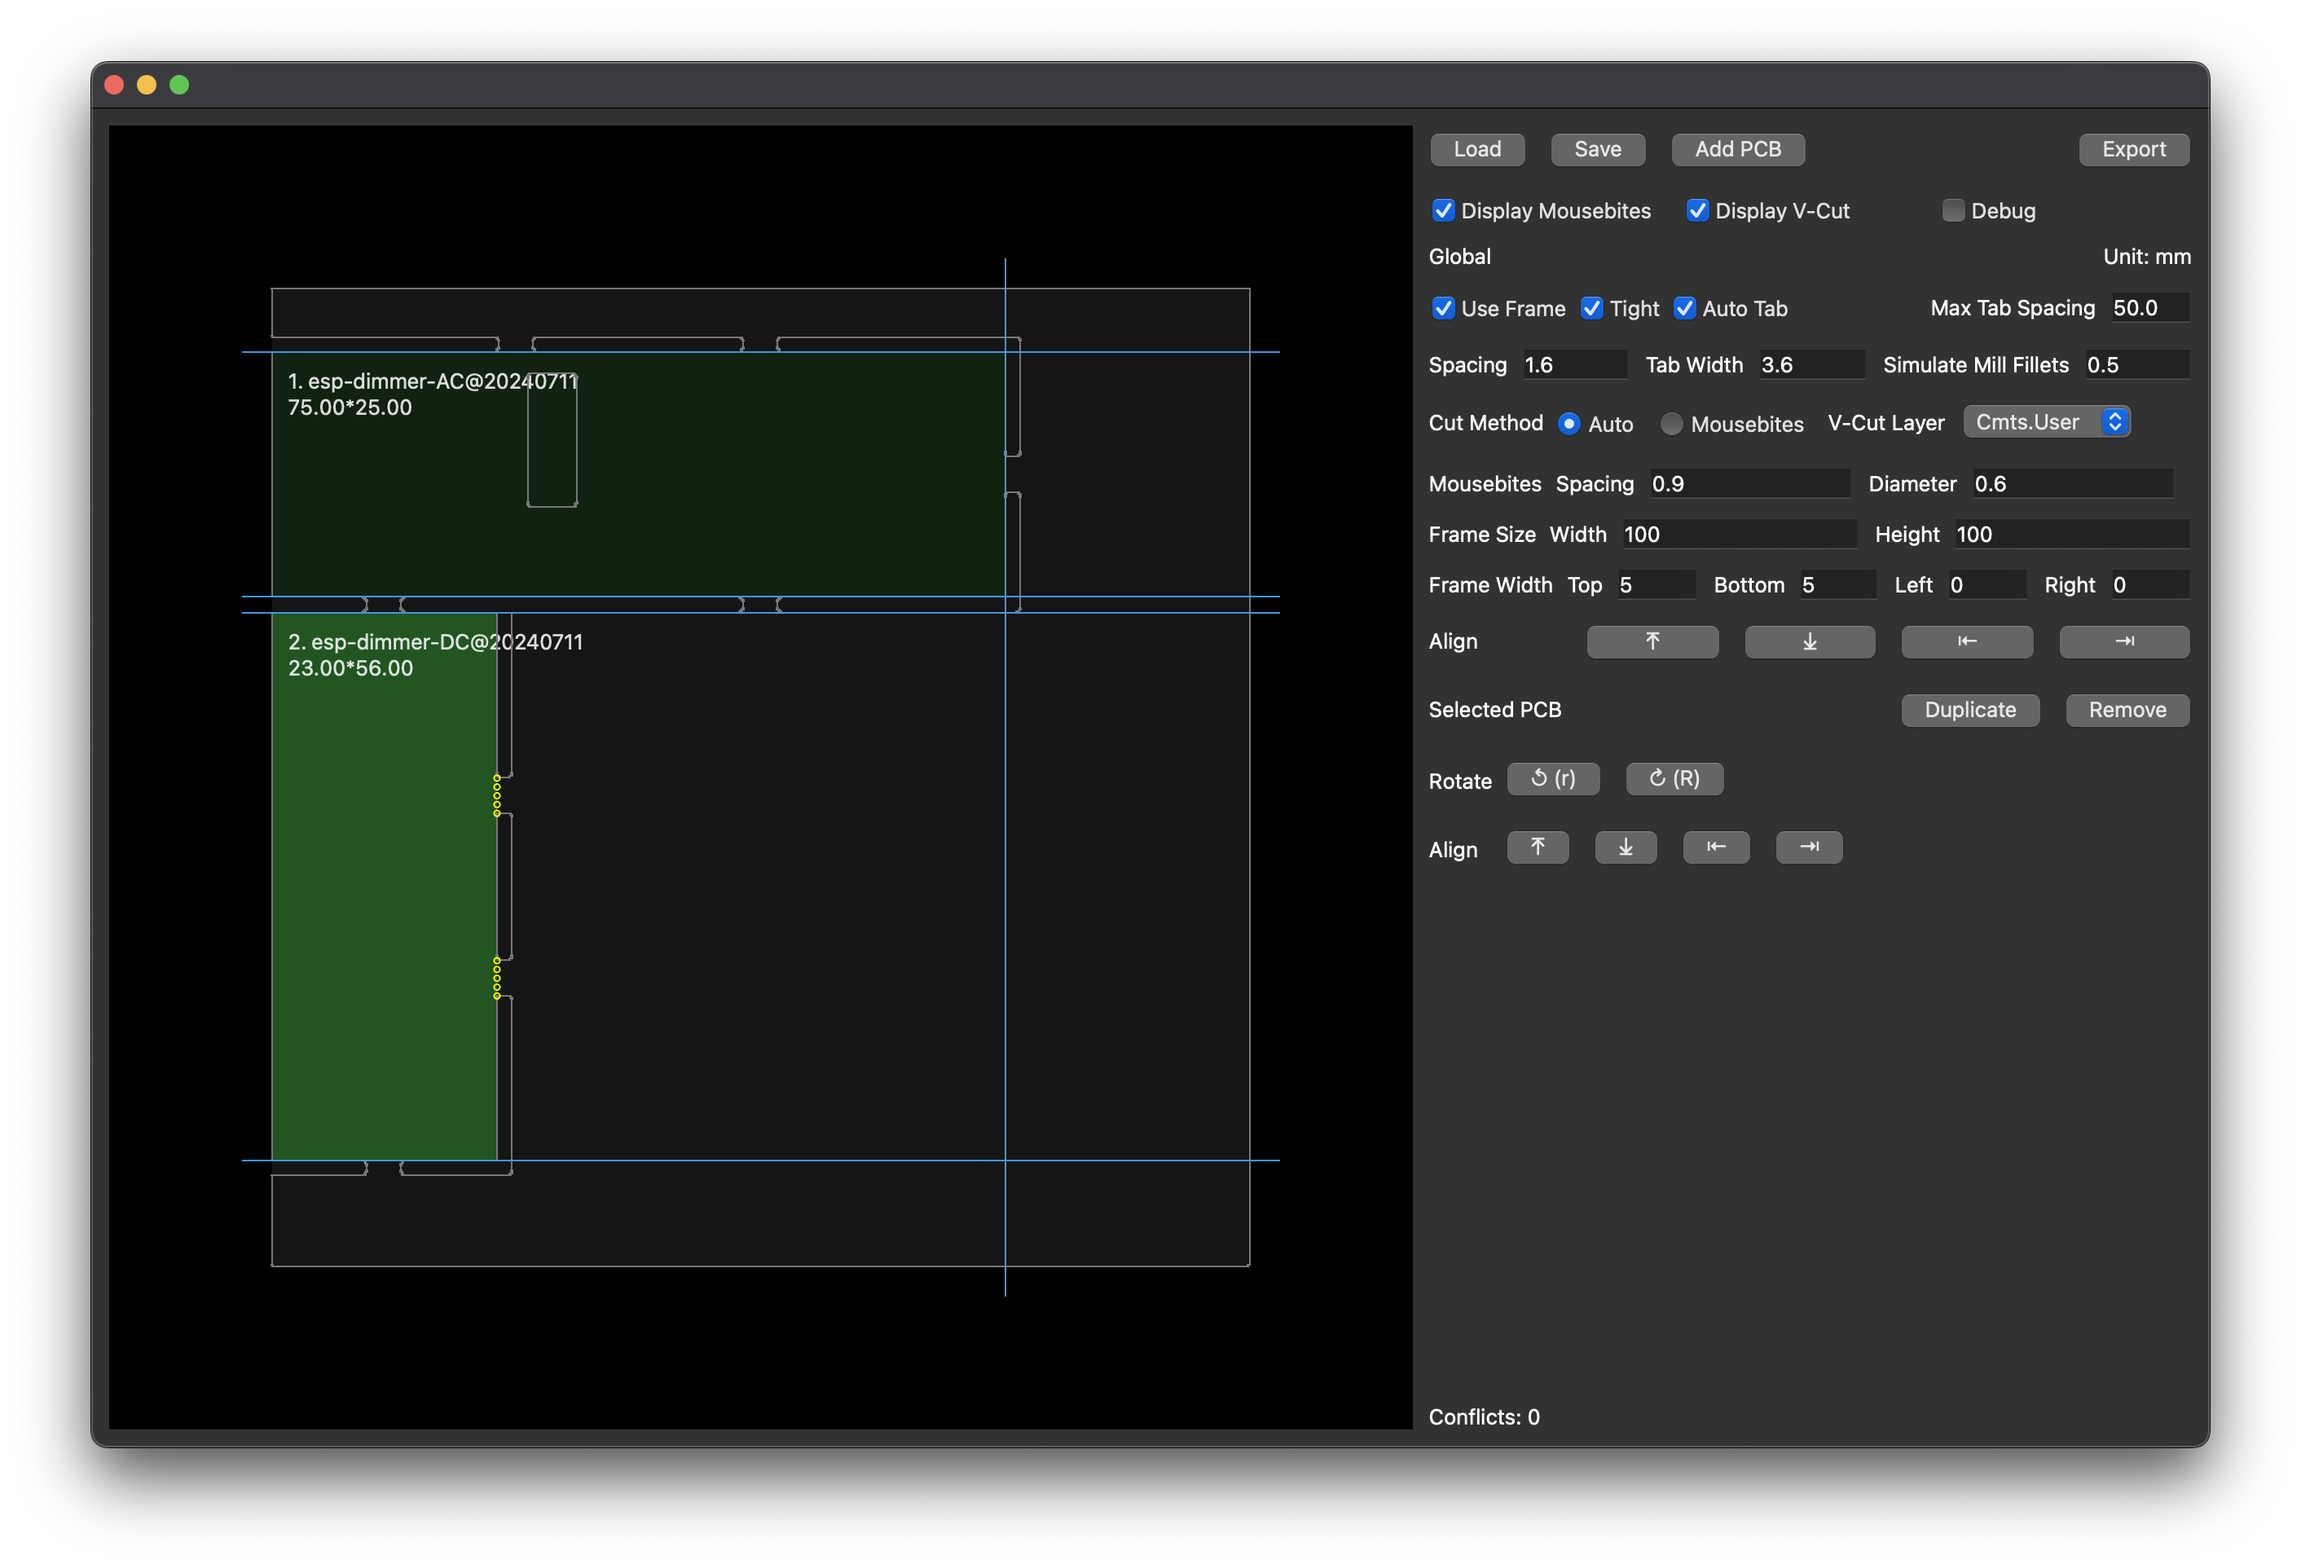
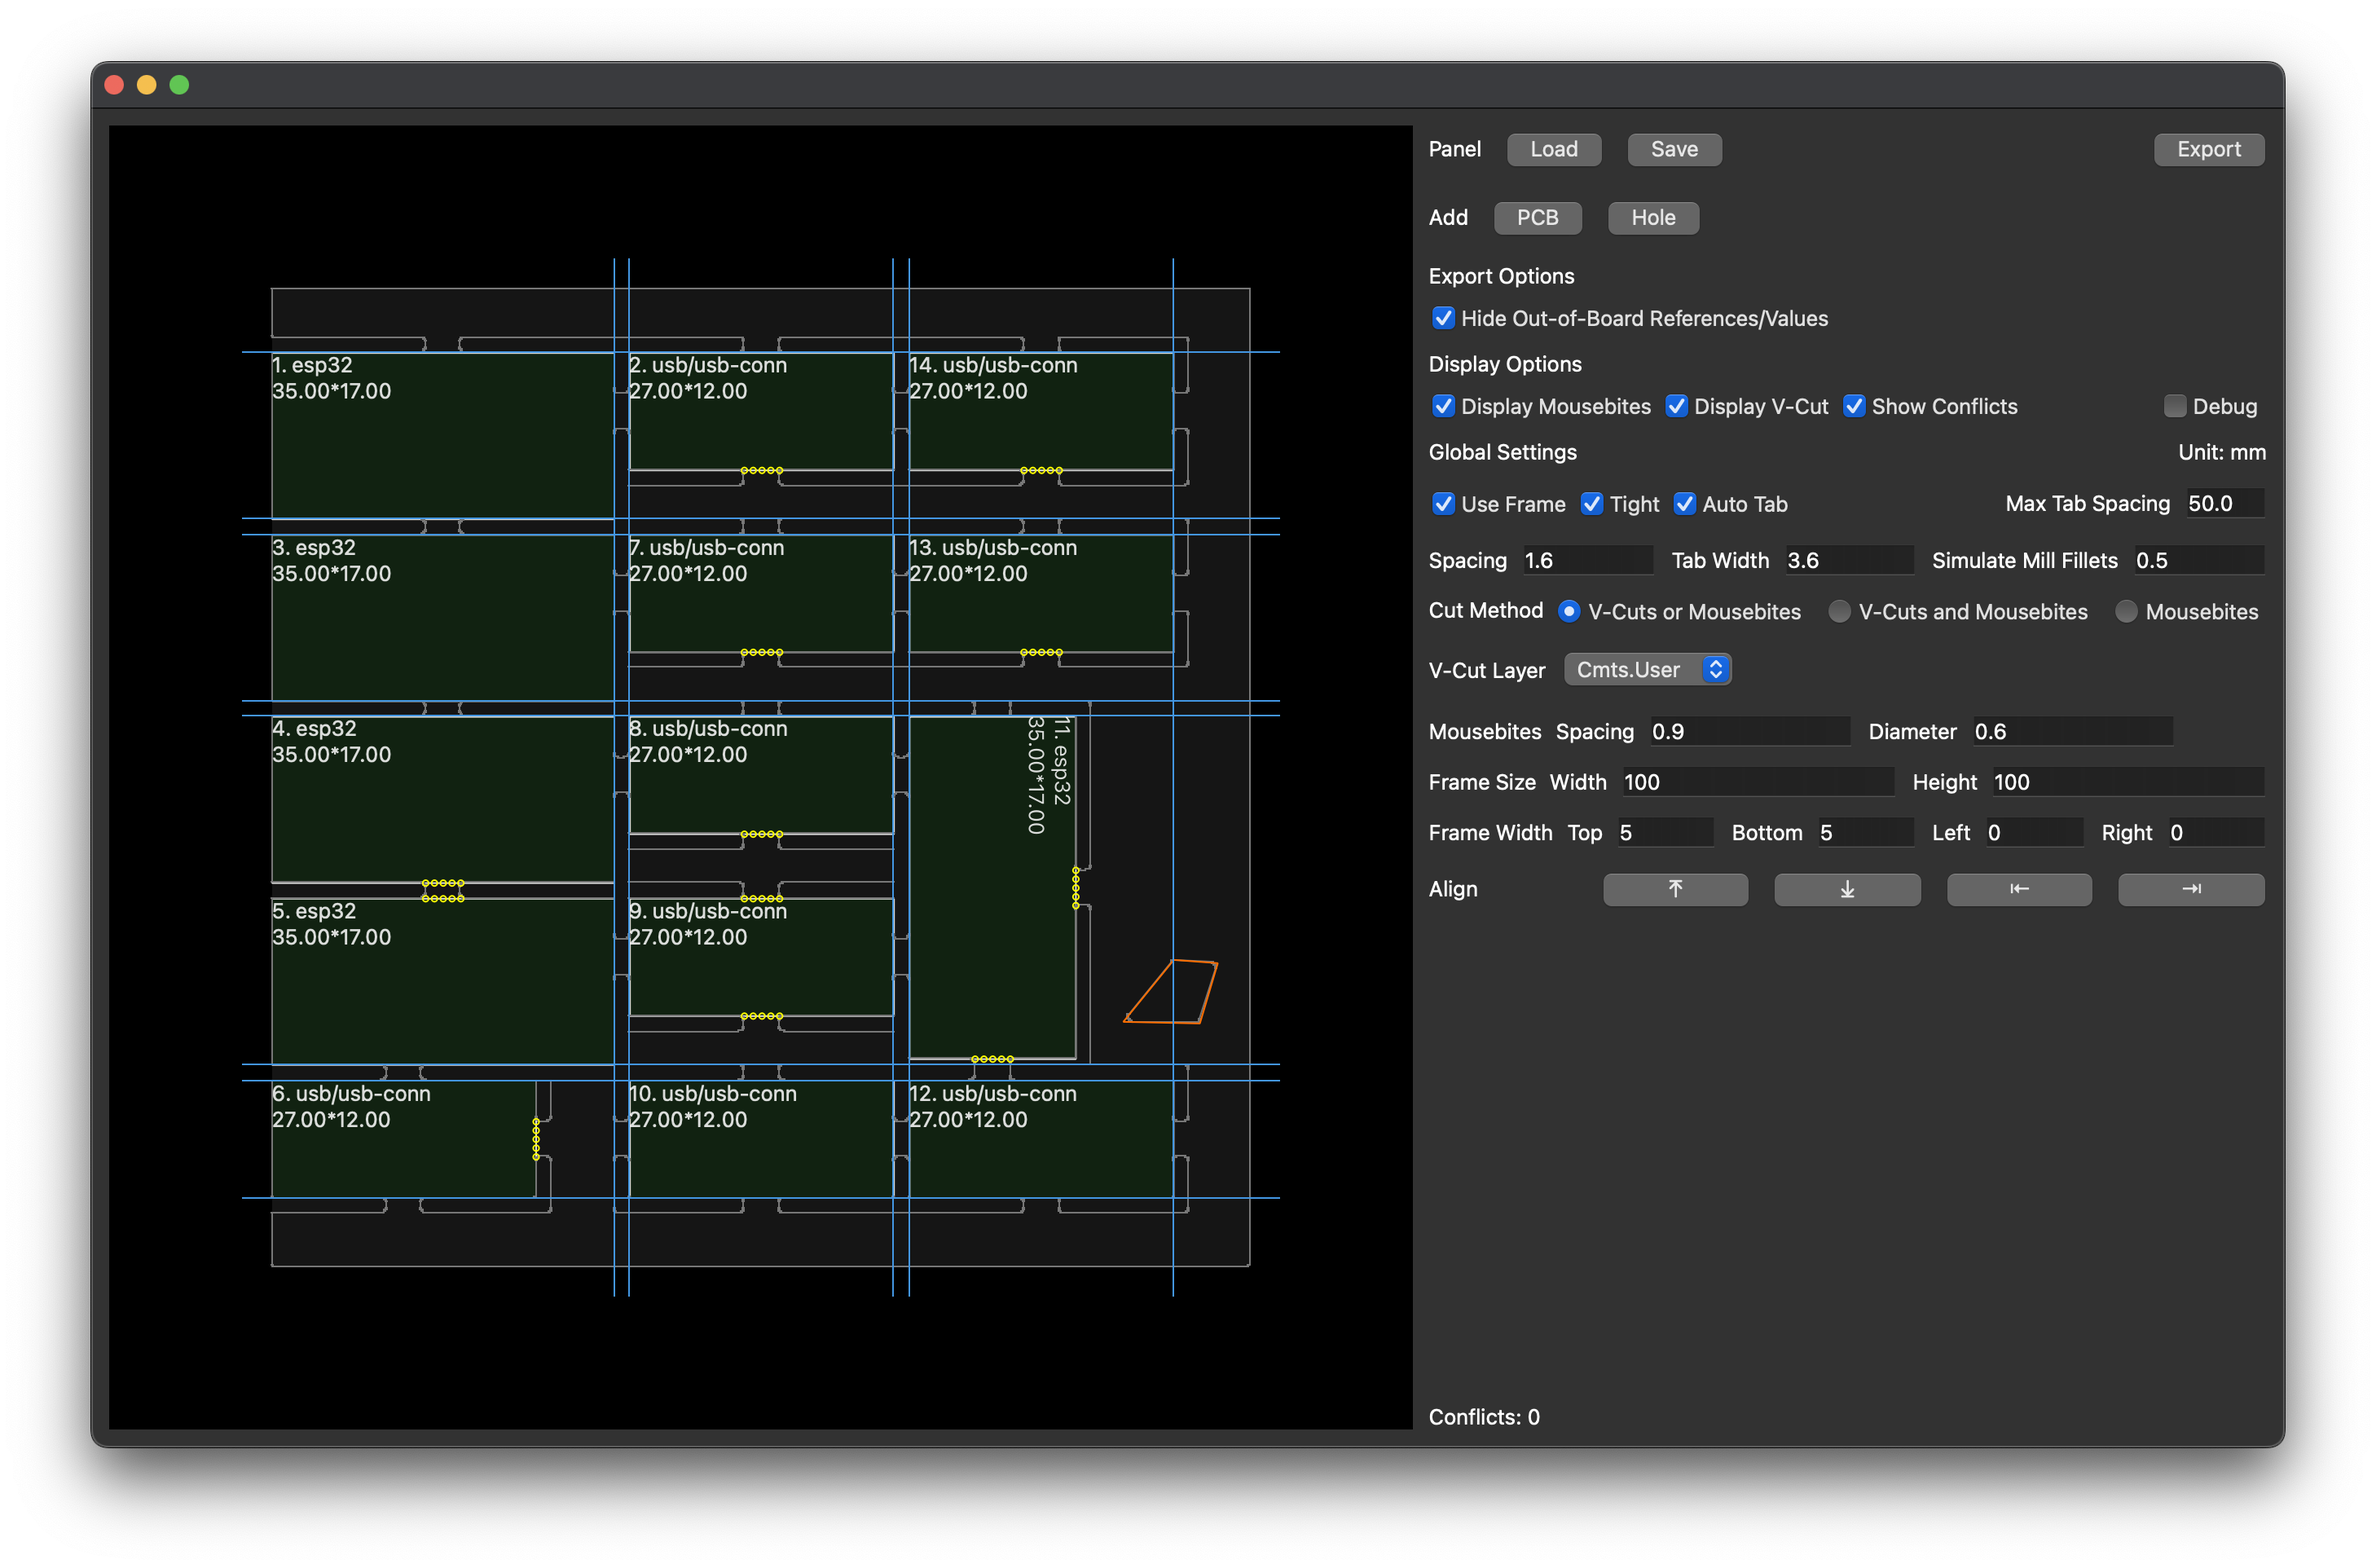
update screenshots

diff --git a/README.md b/README.md
@@ -48,7 +48,7 @@ Run
 # Substrate Hole
 ![Substrate Hole](screenshots/substrate_hole.gif)
 
-# Tight Frame + Auto Tab + Auto Cut
+# Tight Frame + Auto Tab + V-Cuts or Mousebites
 ![UI](screenshots/tight_frame_autotab_autocut.png)
 ## Output
 ![Output](screenshots/tight_frame_autotab_autocut_output.png)
